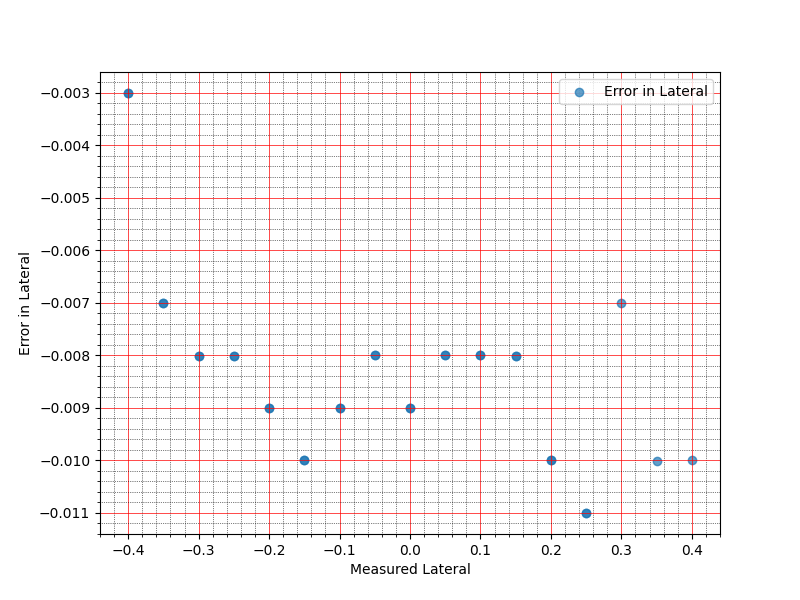
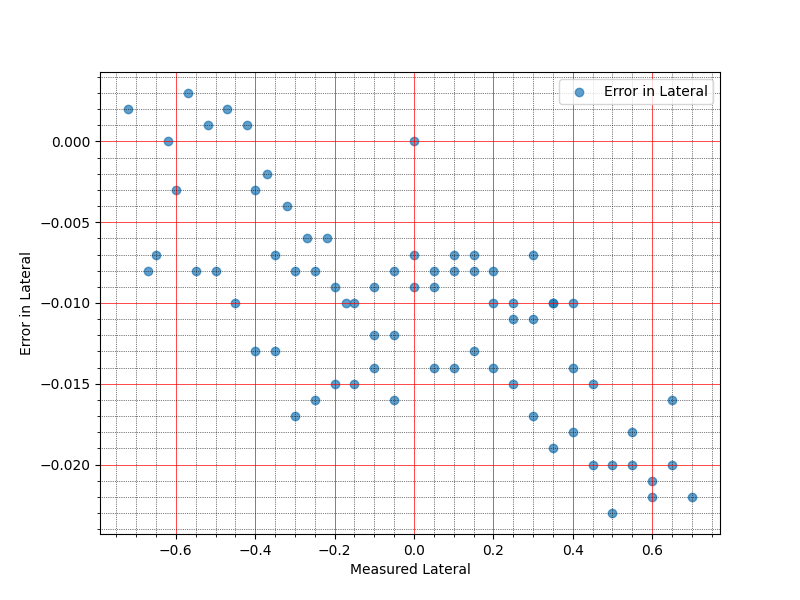
sign_offset

diff --git a/src/perception/scripts/data_analysis/long_bias.py b/src/perception/scripts/data_analysis/long_bias.py
@@ -1,0 +1,97 @@
+#!/usr/bin/env python3
+"""
+Analyse longitudinal-error bias and scale in camera estimates.
+"""
+
+import os
+import pandas as pd
+import matplotlib.pyplot as plt
+import numpy as np
+import scipy.stats as st
+import statsmodels.api as sm
+
+# ----------------------------------------------------------------------
+# 1. Load data
+# ----------------------------------------------------------------------
+current_dir = os.path.dirname(os.path.abspath(__file__))
+name        = "0622"                        # CSV without extension
+csv_path    = os.path.join(current_dir, f"{name}.csv")
+df          = pd.read_csv(csv_path)
+
+# Columns
+mlat  = df["measured_lateral"].values
+mlon  = df["measured_longitudinal"].values
+elat  = df["estimated_lateral"].values
+elon  = df["estimated_longitudinal"].values
+
+# ----------------------------------------------------------------------
+# 2. Residuals
+# ----------------------------------------------------------------------
+err_lat  = elat - mlat
+err_lon  = elon - mlon          # <-- longitudinal residual we care about
+
+# ----------------------------------------------------------------------
+# 3. Constant-bias test  (one-sample t-test)
+# ----------------------------------------------------------------------
+mu_bias     = err_lon.mean()
+sem         = err_lon.std(ddof=1) / np.sqrt(len(err_lon))
+ci95_low, ci95_high = st.t.interval(0.95, len(err_lon)-1, loc=mu_bias, scale=sem)
+t_stat, p_val = st.ttest_1samp(err_lon, 0.0)
+
+print("\n=== CONSTANT-BIAS TEST (longitudinal) ===")
+print(f"Mean bias      : {mu_bias:+.4f} m")
+print(f"95 % CI        : [{ci95_low:+.4f} … {ci95_high:+.4f}] m")
+print(f"t-stat / p-val : {t_stat:.2f}  /  {p_val:.3e}")
+print("Reject H0 (no bias)?" , "YES" if p_val < 0.05 else "NO")
+
+# ----------------------------------------------------------------------
+# 4. Scale-and-bias fit  (OLS)
+#     estimated_longitudinal = β0  +  β1 * measured_longitudinal
+# ----------------------------------------------------------------------
+X    = sm.add_constant(mlon)         # adds column of 1 → intercept β0
+model = sm.OLS(elon, X).fit()
+β0, β1 = model.params                # intercept, slope
+
+print("\n=== OLS FIT ===")
+print(f"β0 (intercept, constant bias) : {β0:+.4f} m")
+print(f"β1 (slope, scale)             : {β1:.4f}")
+print(model.summary().tables[1])     # small neat table
+
+# ----------------------------------------------------------------------
+# 5. Plots
+# ----------------------------------------------------------------------
+# 5-a  Longitudinal error vs measured range
+plt.figure(figsize=(8,6))
+plt.scatter(mlon, err_lon, alpha=0.7, label="Longitudinal error")
+plt.axhline(mu_bias, color="tab:red", lw=1.5, label=f"mean bias {mu_bias:+.3f} m")
+
+# regression line in *error* space:  (β0 + β1·mlon) – mlon  = β0 + (β1–1)·mlon
+reg_err = β0 + (β1-1)*mlon
+plt.plot(mlon, reg_err, "k--", label="regression (bias+scale)")
+
+plt.xlabel("Measured longitudinal (m)")
+plt.ylabel("Estimated - Measured (m)")
+plt.title("Longitudinal residuals")
+plt.legend()
+plt.grid(True, which="both", ls=":")
+plt.tight_layout()
+png1 = os.path.join(current_dir, f"{name}_longitudinal_bias.png")
+plt.savefig(png1, dpi=150)
+plt.show()
+
+# 5-b  (keep your original four error-scatter plots if you like)
+# ----------------------------------------------------------------------
+
+# Optional: Histogram of longitudinal errors
+plt.figure(figsize=(6,4))
+plt.hist(err_lon, bins=15, edgecolor="k", alpha=0.7)
+plt.axvline(mu_bias, color="tab:red", lw=1.5, label=f"mean {mu_bias:+.3f}")
+plt.xlabel("Longitudinal error (m)")
+plt.title("Distribution of longitudinal errors")
+plt.legend()
+plt.tight_layout()
+png2 = os.path.join(current_dir, f"{name}_longitudinal_hist.png")
+plt.savefig(png2, dpi=150)
+plt.show()
+
+print(f"\nPlots saved to:\n  {png1}\n  {png2}")

diff --git a/src/perception/scripts/data_analysis/a2_error_fit.py b/src/perception/scripts/data_analysis/a2_error_fit.py
@@ -31,7 +31,7 @@ def plot_with_fit(x, y, xlabel, ylabel, filename, label):
         
         # Fit a linear line
         m, b = np.polyfit(x_valid, y_valid, 1)
-        print(f"Linear Fit: y = {m:.2f}x + {b:.2f}")
+        print(f"Linear Fit: y = {m:.4f}x + {b:.4f}")
         plt.plot(x_valid, m*x_valid + b, color='blue', linestyle='dashed', label='Linear Fit')
         
         plt.xlabel(xlabel)
@@ -50,10 +50,10 @@ def plot_with_fit(x, y, xlabel, ylabel, filename, label):
 # plot_with_fit(measured_longitudinal, error_lateral, 'Measured Longitudinal', 'Error in Lateral', name + '_error_lateral.png', 'Error in Lateral')
 
 # Second scatter plot: Error in Longitudinal vs. Measured Longitudinal
-plot_with_fit(estimated_longitudinal, error_longitudinal, 'Measured Longitudinal', 'Error in Longitudinal', name + '_error_longitudinal.png', 'Error in Longitudinal')
+# plot_with_fit(estimated_longitudinal, error_longitudinal, 'Measured Longitudinal', 'Error in Longitudinal', name + '_error_longitudinal.png', 'Error in Longitudinal')
 
 # # Third scatter plot: Error in Lateral vs. Measured Lateral
-# plot_with_fit(measured_lateral, error_lateral, 'Measured Lateral', 'Error in Lateral', name + '_error_lateral_vs_lateral.png', 'Error in Lateral')
+plot_with_fit(measured_lateral, error_lateral, 'Measured Lateral', 'Error in Lateral', name + '_error_lateral_vs_lateral.png', 'Error in Lateral')
 
 # # Fourth scatter plot: Error in Longitudinal vs. Measured Lateral
 # plot_with_fit(measured_lateral, error_longitudinal, 'Measured Lateral', 'Error in Longitudinal', name + '_error_longitudinal_vs_lateral.png', 'Error in Longitudinal')

diff --git a/src/control/include/Tunable.h b/src/control/include/Tunable.h
@@ -66,6 +66,7 @@ namespace Tunable {
     inline double sign_lon_offset;
     inline double sign_lon_offset_slope;
     inline double sign_lat_offset;
+    inline double sign_lat_offset_slope;
 
     inline double max_light_dist = 0.9;
     inline double max_sign_dist = 1.5;
@@ -167,6 +168,7 @@ namespace Tunable {
       CHECK_PARAM(mode + "/sign_lon_offset", sign_lon_offset);
       CHECK_PARAM(mode + "/sign_lon_offset_slope", sign_lon_offset_slope);
       CHECK_PARAM(mode + "/sign_lat_offset", sign_lat_offset);
+        CHECK_PARAM(mode + "/sign_lat_offset_slope", sign_lat_offset_slope);
       CHECK_PARAM(mode + "/max_light_dist", max_light_dist);
       CHECK_PARAM(mode + "/max_sign_dist", max_sign_dist);
       CHECK_PARAM(mode + "/min_sign_dist", min_sign_dist);

diff --git a/src/control/include/Utility.hpp b/src/control/include/Utility.hpp
@@ -406,7 +406,7 @@ public:
         double speed   = Tunable::use_encoder ? filtered_encoder_speed : velocity_command;
         P_v2d.x()    -= latency * speed;
         P_v2d.x()    += sign_lon_offset_slope * P_v2d.x() + sign_lon_offset;
-        P_v2d.y()    += sign_lat_offset;
+        P_v2d.y()    += sign_lat_offset + sign_lat_offset_slope * P_v2d.y();
 
         // rotate into world frame and translate by vehicle pose
         Eigen::Matrix2d R_vw;
